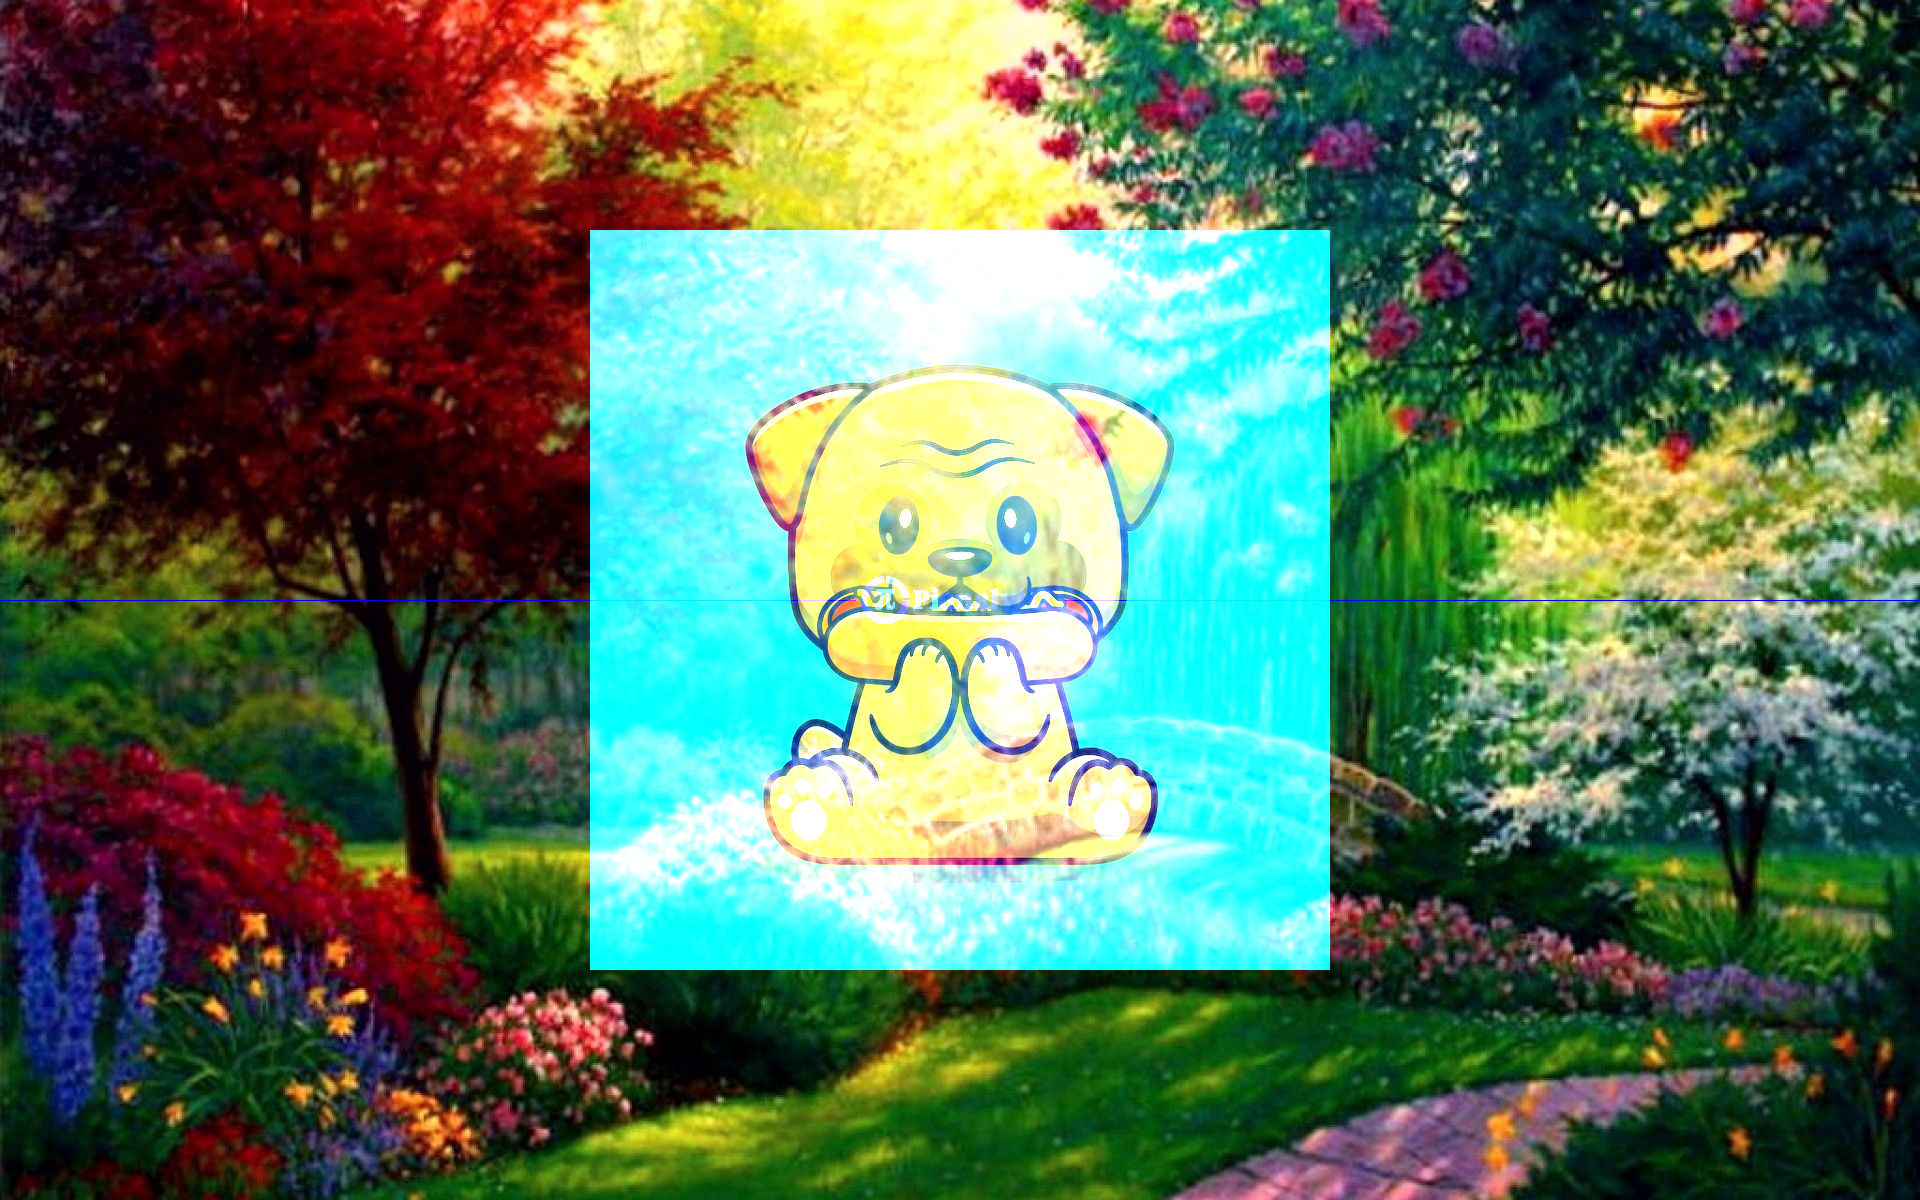
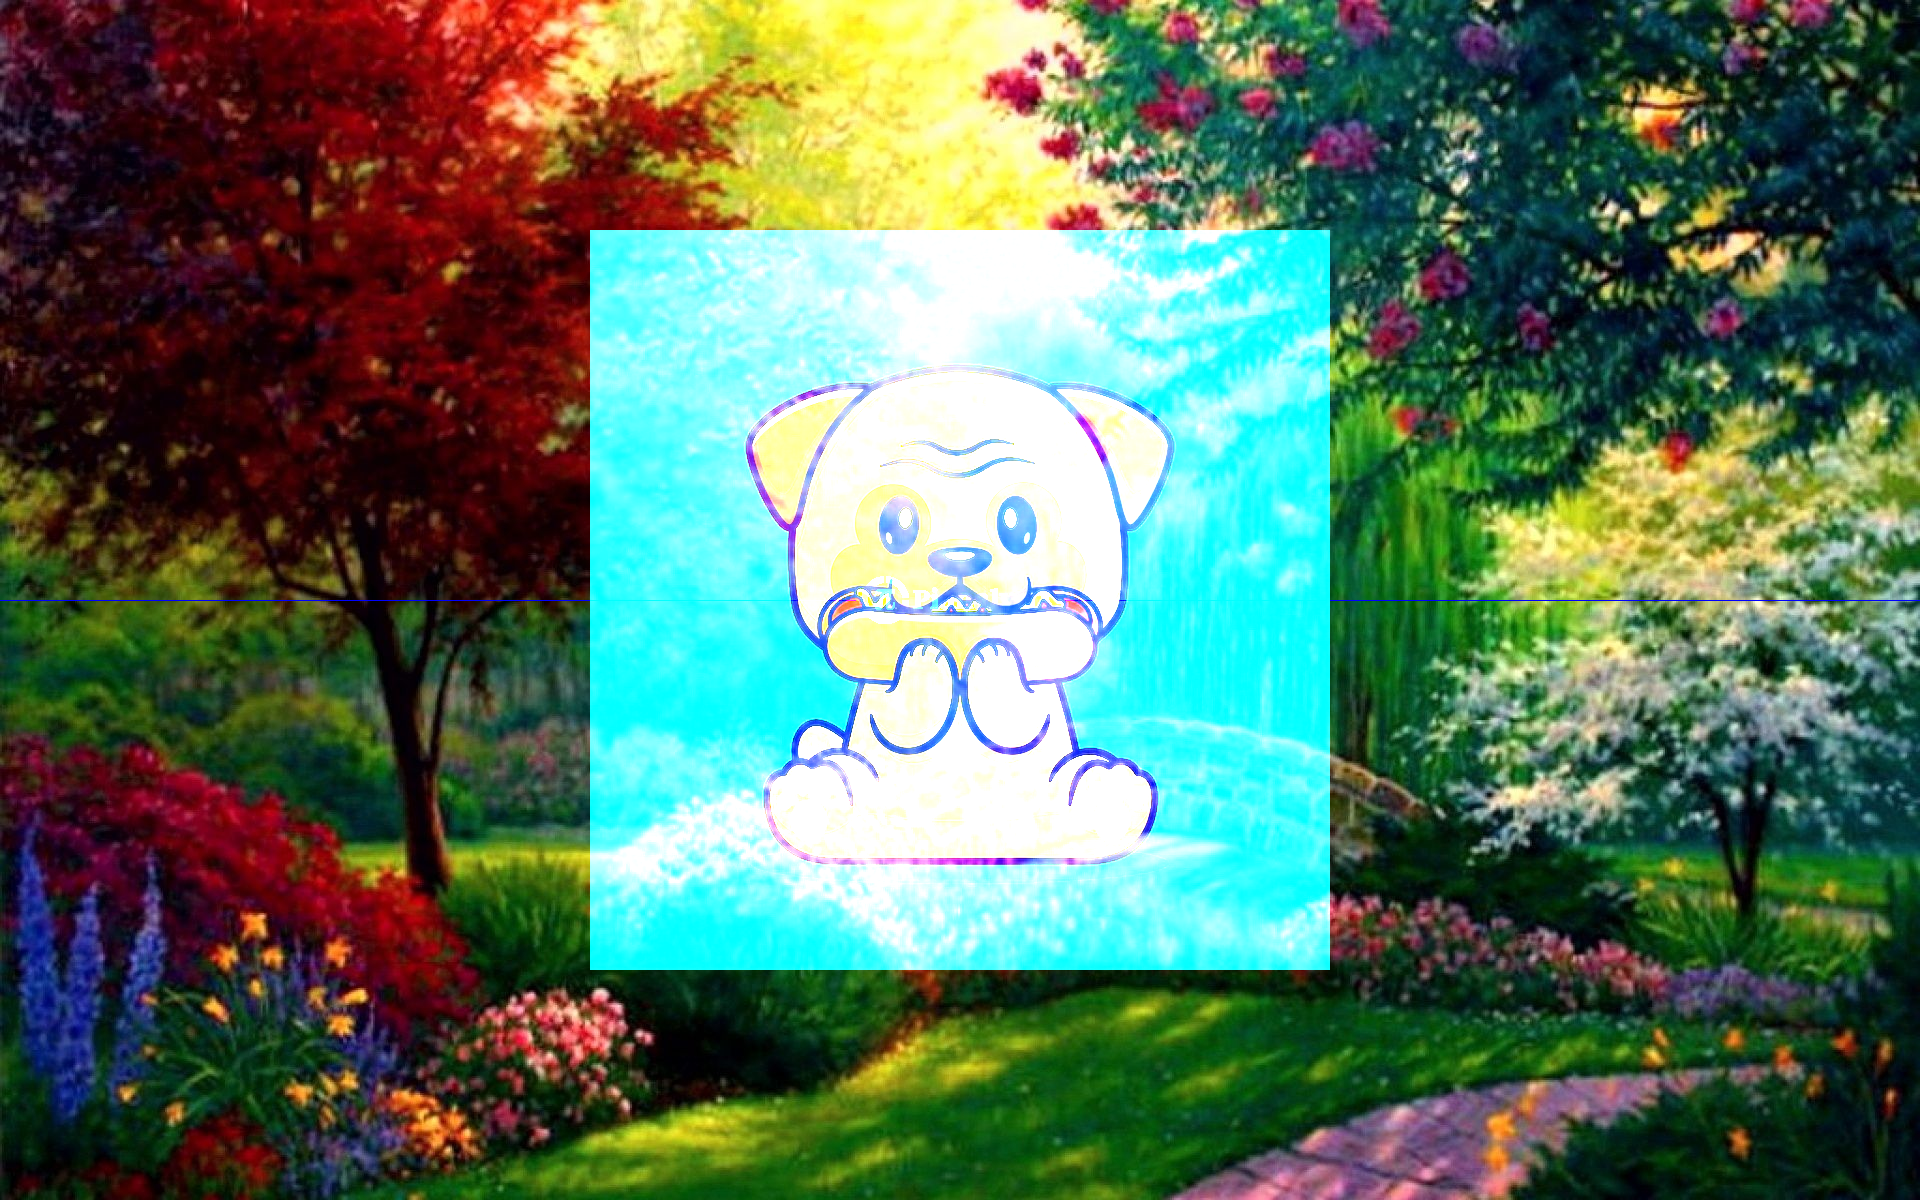
updated_frontend

Changed region(s): [[0.375, 0.3083, 0.625, 0.74]]

diff --git a/app/templates/index.html b/app/templates/index.html
@@ -3,7 +3,7 @@
 <head>
   <meta http-equiv="Content-Type" content="text/html; charset=UTF-8"/>
   <meta name="viewport" content="width=device-width, initial-scale=1, maximum-scale=1.0"/>
-  <title>Pan Card Tampering</title>
+  <title>Image Watermarking</title>
 
   <!-- CSS  -->
   <script src="//ajax.googleapis.com/ajax/libs/jquery/1.9.1/jquery.min.js"></script>

diff --git a/app/views.py b/app/views.py
@@ -46,7 +46,7 @@ def index():
 		else:
 			text_mark = request.form['text_mark']
 
-			cv2.putText(image_logow, text='Dog_Comp', org=(w_image - 95, h_image - 10), fontFace=cv2.FONT_HERSHEY_COMPLEX, fontScale=0.5,
+			cv2.putText(image_logow, text=text_mark, org=(w_image - 95, h_image - 10), fontFace=cv2.FONT_HERSHEY_COMPLEX, fontScale=0.5,
 			color=(0,0,255), thickness=2, lineType=cv2.LINE_4);
 			timg = Image.fromarray(image_logow, 'RGB')
 			timg.save(os.path.join(app.config['INITIAL_FILE_UPLOADS'], 'image1.png'))
